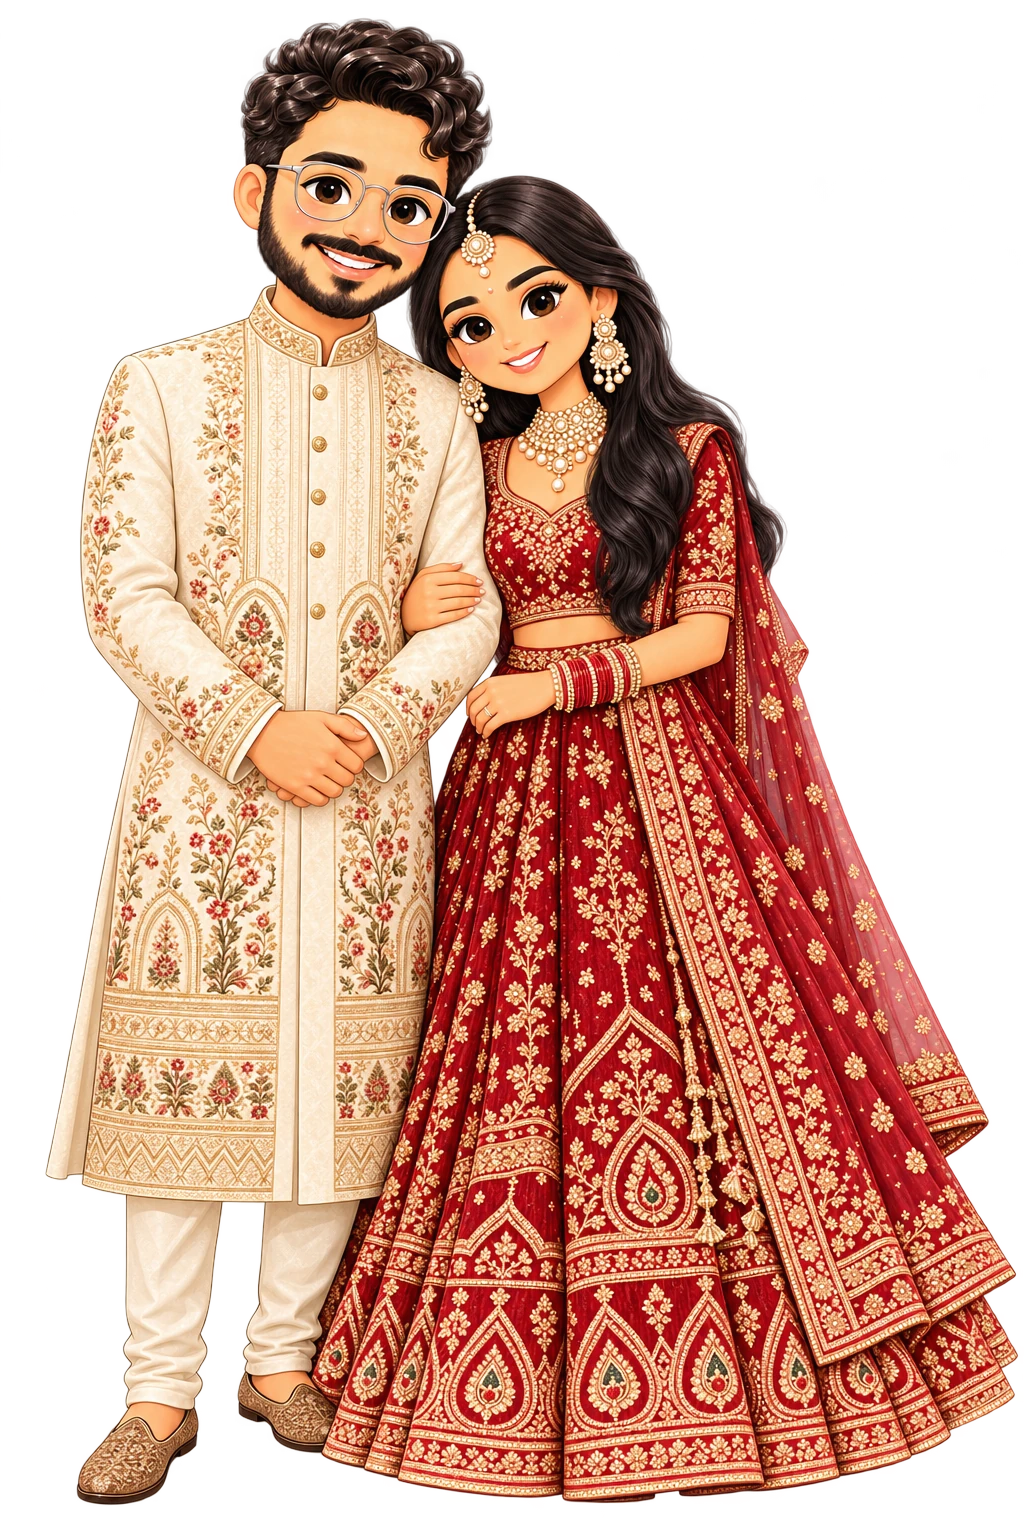
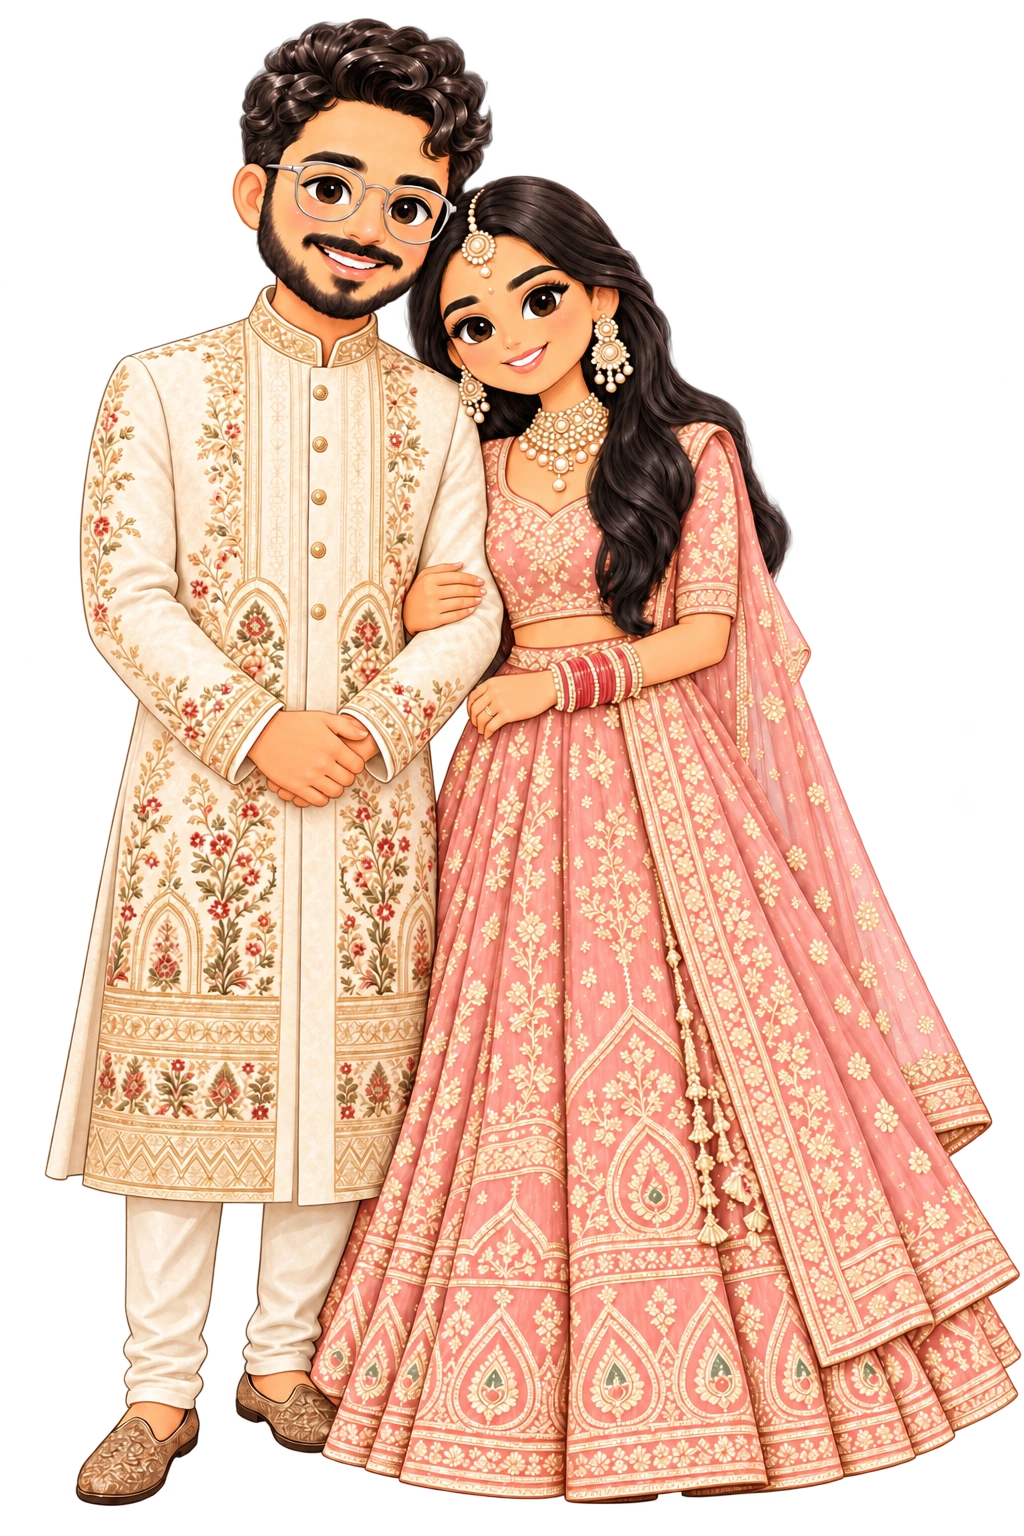
Update wedding attire and family invitation text

diff --git a/index.html b/index.html
@@ -231,7 +231,7 @@
       <div class="reveal">
         <svg class="family-ornament" viewBox="0 0 120 40" fill="none" stroke="currentColor" stroke-width="1.35" stroke-linecap="round" stroke-linejoin="round" aria-hidden="true"><path d="M5 29h29c10 0 17-5 24-16 7 11 14 16 24 16h29"/><path d="M58 9c-4 4-7 8-7 12 0 4 3 7 9 11 6-4 9-7 9-11 0-4-3-8-7-12l-2-2-2 2Z"/><path d="M42 28c5-1 9-4 13-9M78 28c-5-1-9-4-13-9M60 32v4M36 29l-4-4M84 29l4-4"/></svg>
         <p class="label">With the loving blessings of</p>
-        <p class="elders" style="--i:1"><span>Late Mrs. Dasrhi Jaggi &amp;<br />Late Prof. (Dr.) OP Jaggi</span><span>Late Rear Adm. KL Malhan &amp;<br />Mrs. Sushma Malhan</span></p>
+        <p class="elders" style="--i:1"><span>Late Mrs. Dashri Jaggi, Late Prof. (Dr.) OP Jaggi, Late Rear Adm. KL Malhan &amp;</span><span>Mrs. Sushma Malhan</span></p>
         <p class="hosts" style="--i:2"><b>Namita &amp; Vikram Jaggi</b>are delighted to invite you to the<br />wedding celebrations of their son</p>
         <p style="--i:3"><span class="name">Raghav</span><span class="with">with</span><span class="name">Aastha</span></p>
         <p class="parents" style="--i:4">D/o Anuradha (late) &amp; Arun Tandon</p>
